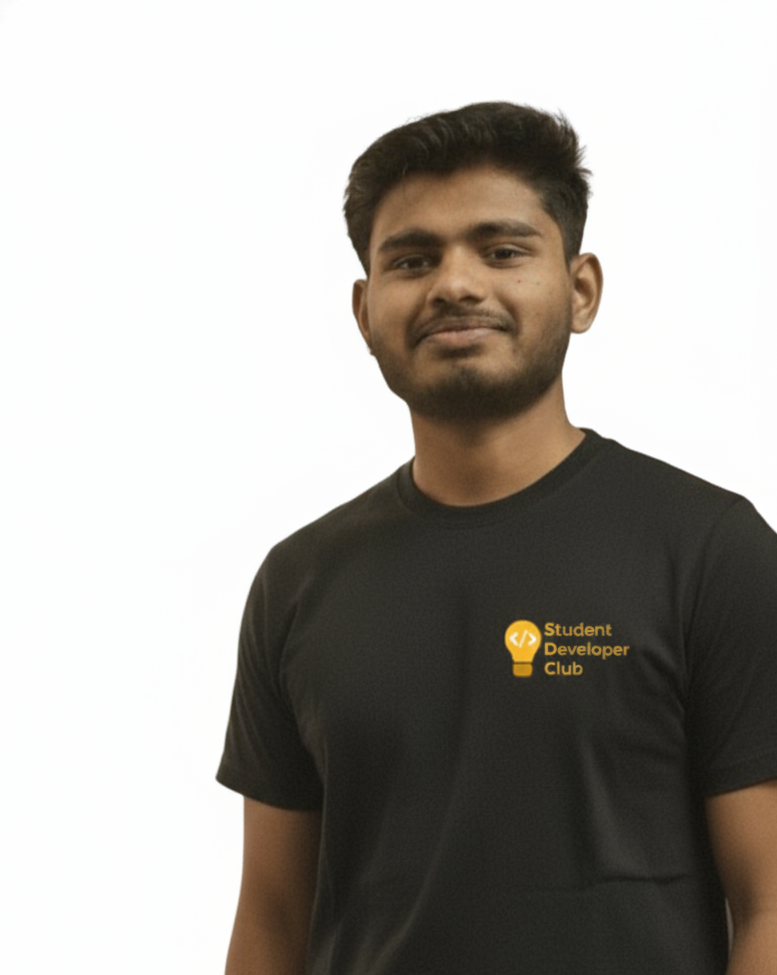
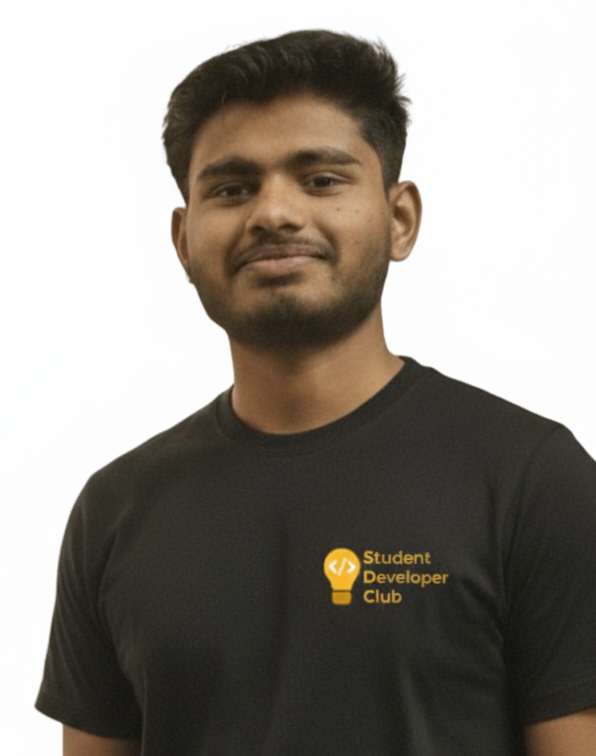
Fixed navbar height and updated team images

diff --git a/index.html b/index.html
@@ -531,7 +531,7 @@
                     Our Sponsors</h3>
             </div>
         </div>
-        <!-- <div class="container">
+        <div class="container">
             <div class="row title-sponsor">
                 <div class="col-md-12">
                     <div class="sponsor-heading" data-aos="fade-up" data-aos-duration="1000"
@@ -540,8 +540,8 @@
                 <div class="col-md-2"></div>
                 <div class="col-md-8">
                     <div class="sponsors-logo" data-aos="fade-up" data-aos-duration="1000"
-                        data-aos-anchor-placement="top-bottom"> <a href="https://www.vultr.com/" target="_blank"> <img
-                                src="assets/img/sponsors/6.0/Vultr.png" loading=lazy> </a>
+                        data-aos-anchor-placement="top-bottom"> <a href="https://bilvaleaf.com/" target="_blank"> <img
+                                src="assets\img\sponsors\Bilvaleaf.jpeg" loading=lazy> </a>
                     </div>
                 </div>
                 <div class="col-md-2"></div>
@@ -555,29 +555,29 @@
                 <div class="col-md-2"></div>
                 <div class="col-md-8">
                     <div class="sponsors-logo" data-aos="fade-up" data-aos-duration="1000"
-                        data-aos-anchor-placement="top-bottom"> <a href="https://society.ton.org/activities/active" target="_blank"> <img
-                                src="assets/img/sponsors/6.0/Group 9293.png" loading=lazy> </a>
+                        data-aos-anchor-placement="top-bottom"> <a href="https://namespace.so/" target="_blank"> <img
+                                src="assets/img/com_part/Namespace Logo FINAL.png" loading=lazy> </a>
                     </div>
                 </div>
                 <div class="col-md-2"></div>
             </div>
 
-            <div class="row gold-sponsor">
+             <div class="row gold-sponsor">
                 <div class="col-md-12">
                     <div class="sponsor-heading" data-aos="fade-up" data-aos-duration="1000"
-                        data-aos-anchor-placement="top-bottom">Gold Sponsor</div>
+                        data-aos-anchor-placement="top-bottom">In Collaboration with IEEE</div>
                 </div>
                 <div class="col-md-2"></div>
                 <div class="col-md-8">
                     <div class="sponsors-logo" data-aos="fade-up" data-aos-duration="1000"
-                        data-aos-anchor-placement="top-bottom"> <a href="https://www.logitech.com/en-in" target="_blank"> <img
-                                src="assets/img/sponsors/6.0/logitech.png" loading=lazy> </a>
+                        data-aos-anchor-placement="top-bottom"> <a href="https://www.linkedin.com/company/ieee-student-branch-rec-banda/posts/?feedView=all target="_blank"> <img
+                                src="assets\img\sponsors\6.0\IEEE.jpg" loading=lazy> </a>
                     </div>
                 </div>
                 <div class="col-md-2"></div>
             </div>
 
-            <div class="row gold-sponsor">
+            <!--div class="row gold-sponsor">
                 <div class="col-md-12">
                     <div class="sponsor-heading" data-aos="fade-up" data-aos-duration="1000"
                         data-aos-anchor-placement="top-bottom">Silver Sponsor</div>
@@ -590,7 +590,7 @@
                     </div>
                 </div>
                 <div class="col-md-2"></div>
-            </div>
+            </!--div>
 
 
             <div class="row gold-sponsor">
@@ -764,7 +764,7 @@
                         data-aos-anchor-placement="top-bottom"> <a href="https://www.mongodb.com/" target="_blank">
                             <img src="assets/img/com_part/theDevarmy-removebg-preview.svg" alt="MongoDB Logo" lazy> </a></div>
                 </div>
-                </div>
+                </div> -->
             </div>
 
 
@@ -781,7 +781,7 @@
             </div>
         </center>
         </div>
-    </section> -->
+    </section>
 
 
 
@@ -829,7 +829,7 @@
 
     <div class="col-md-4">
         <div class="team-box">
-            <img src="assets/img/team/coordinators/anivesh.png" alt="Anivesh Tyagi" width="90%" height="250px">
+            <img src="assets/img/team/coordinators/Anivesh.png" alt="Anivesh Tyagi" width="90%" height="250px">
             <h2>Anivesh Tyagi</h2>
             <h5>Data science Lead</h5>
             <h6>

diff --git a/assets/css/style-v5.css b/assets/css/style-v5.css
@@ -11,7 +11,7 @@ html {
 
 .progress {
     position: fixed;
-    top: 12rem;
+    top: 5.7rem;
 
     left: 0;
     height: 6px;
@@ -1784,8 +1784,8 @@ div.lgx-single-registration.recommended {
     .navbar-nav {
         float: right;
         margin: 0;
-        margin-top: 1rem;
-        margin-right: 10rem;
+        margin-top: 0rem;
+        margin-right: 0rem;
     }
 }
 
@@ -3215,4 +3215,26 @@ lord-icon {
 
 .com-pat{
     margin-left: 120px;
+}
+
+
+/* --- Fix for Sticky Navbar Height --- */
+
+/* 1. Remove extra space at the bottom of the header bar */
+.lgx-header .menu-onscroll {
+    padding-bottom: 0 !important; 
+}
+
+/* 2. Reduce the vertical padding of the menu links (Default is typically around 30px) */
+.lgx-header .menu-onscroll .lgx-navbar .lgx-nav li a {
+    padding-top: 15px !important;    /* Adjust this number to change text vertical position */
+    padding-bottom: 15px !important; /* Adjust this number to change overall bar height */
+}
+
+/* 3. Reduce the massive padding around the logo image */
+/* The default CSS had 1.6rem top and 2.6rem bottom padding which made it very tall */
+.lgx-header .menu-onscroll .lgx-navbar .lgx-logo-fixed a img {
+    padding-top: 5px !important;
+    padding-bottom: 5px !important;
+    max-width: 90px !important; /* Optional: Restrict width if the logo keeps the bar tall */
 }
